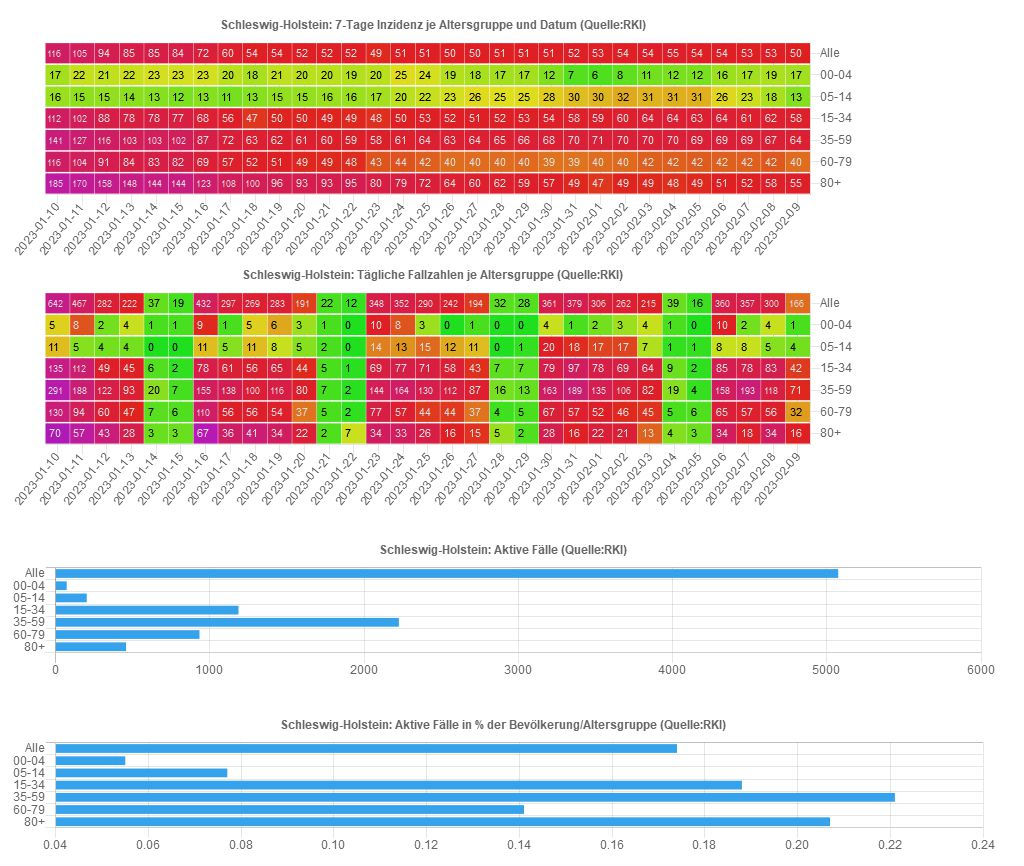
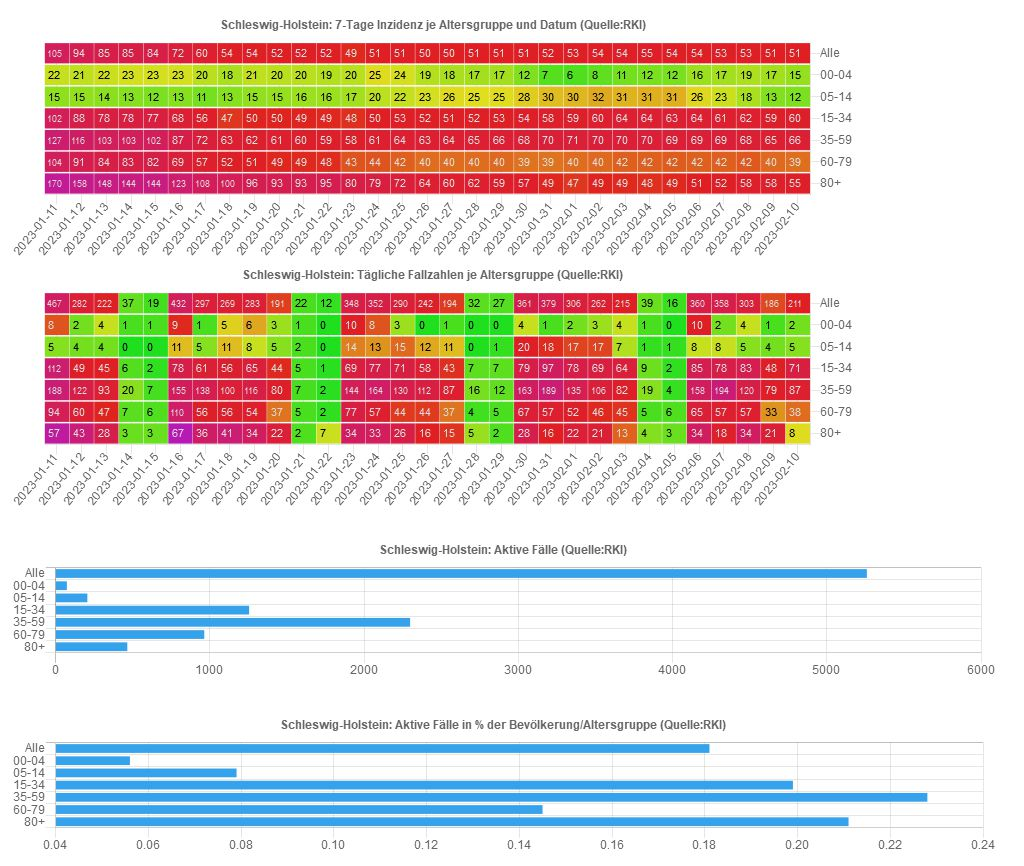
11.02.2023 20:03:33,46

diff --git a/sh/Data_SH_Alter.js b/sh/Data_SH_Alter.js
@@ -4,7 +4,6 @@ var chdata={
 		datasets: [{
 			label: 'Altersgruppeninzidenzen',
 			data: [
-				{x: '2023-01-10', y: 'Alle', v: 115.772749, vday: 154.386568, cases: 642, casesum: 3370},{x: '2023-01-10', y: '00-04', v: 16.9780597, vday: 27.0105495, cases: 5, casesum: 22},{x: '2023-01-10', y: '05-14', v: 15.7171827, vday: 29.5176358, cases: 11, casesum: 41},{x: '2023-01-10', y: '15-34', v: 111.725984, vday: 150.186422, cases: 135, casesum: 703},{x: '2023-01-10', y: '35-59', v: 141.154313, vday: 201.918073, cases: 291, casesum: 1424},{x: '2023-01-10', y: '60-79', v: 115.849652, vday: 137.44874, cases: 130, casesum: 767},{x: '2023-01-10', y: '80+', v: 185.179302, vday: 222.39671, cases: 70, casesum: 408},
 				{x: '2023-01-11', y: 'Alle', v: 105.088676, vday: 112.303002, cases: 467, casesum: 3059},{x: '2023-01-11', y: '00-04', v: 21.6084396, vday: 43.2168793, cases: 8, casesum: 28},{x: '2023-01-11', y: '05-14', v: 14.567145, vday: 13.4171072, cases: 5, casesum: 38},{x: '2023-01-11', y: '15-34', v: 102.03141, vday: 124.599106, cases: 112, casesum: 642},{x: '2023-01-11', y: '35-59', v: 126.880282, vday: 130.448789, cases: 188, casesum: 1280},{x: '2023-01-11', y: '60-79', v: 104.068332, vday: 99.3860119, cases: 94, casesum: 689},{x: '2023-01-11', y: '80+', v: 169.747693, vday: 181.094464, cases: 57, casesum: 374},
 				{x: '2023-01-12', y: 'Alle', v: 94.3015416, vday: 67.8146605, cases: 282, casesum: 2745},{x: '2023-01-12', y: '00-04', v: 20.8367097, vday: 10.8042198, cases: 2, casesum: 27},{x: '2023-01-12', y: '05-14', v: 14.9504909, vday: 10.7336858, cases: 4, casesum: 39},{x: '2023-01-12', y: '15-34', v: 87.7279417, vday: 54.5121087, cases: 49, casesum: 552},{x: '2023-01-12', y: '35-59', v: 115.580006, vday: 84.6529378, cases: 122, casesum: 1166},{x: '2023-01-12', y: '60-79', v: 91.0786705, vday: 63.43788, cases: 60, casesum: 603},{x: '2023-01-12', y: '80+', v: 158.400922, vday: 136.615122, cases: 43, casesum: 349},
 				{x: '2023-01-13', y: 'Alle', v: 85.4038734, vday: 53.3860094, cases: 222, casesum: 2486},{x: '2023-01-13', y: '00-04', v: 22.3801696, vday: 21.6084396, cases: 4, casesum: 29},{x: '2023-01-13', y: '05-14', v: 14.183799, vday: 10.7336858, cases: 4, casesum: 37},{x: '2023-01-13', y: '15-34', v: 78.1922958, vday: 50.0621406, cases: 45, casesum: 492},{x: '2023-01-13', y: '35-59', v: 102.991104, vday: 64.5305182, cases: 93, casesum: 1039},{x: '2023-01-13', y: '60-79', v: 83.8286271, vday: 49.693006, cases: 47, casesum: 555},{x: '2023-01-13', y: '80+', v: 147.508022, vday: 88.9586841, cases: 28, casesum: 325},
@@ -23,18 +22,19 @@ var chdata={
 				{x: '2023-01-26', y: 'Alle', v: 50.053678, vday: 58.1955598, cases: 242, casesum: 1457},{x: '2023-01-26', y: '00-04', v: 19.2932497, vday: 0, cases: 0, casesum: 25},{x: '2023-01-26', y: '05-14', v: 23.3841011, vday: 32.2010573, cases: 12, casesum: 61},{x: '2023-01-26', y: '15-34', v: 51.6514149, vday: 64.5245368, cases: 58, casesum: 325},{x: '2023-01-26', y: '35-59', v: 63.3410155, vday: 77.7141724, cases: 112, casesum: 639},{x: '2023-01-26', y: '60-79', v: 40.177324, vday: 46.521112, cases: 44, casesum: 266},{x: '2023-01-26', y: '80+', v: 63.5419172, vday: 50.8335338, cases: 16, casesum: 140},
 				{x: '2023-01-27', y: 'Alle', v: 50.1567398, vday: 46.6526388, cases: 194, casesum: 1460},{x: '2023-01-27', y: '00-04', v: 17.7497897, vday: 5.40210991, cases: 1, casesum: 23},{x: '2023-01-27', y: '05-14', v: 25.6841766, vday: 29.5176358, cases: 11, casesum: 67},{x: '2023-01-27', y: '15-34', v: 51.4924875, vday: 47.8371566, cases: 43, casesum: 324},{x: '2023-01-27', y: '35-59', v: 64.0348921, vday: 60.3672589, cases: 87, casesum: 646},{x: '2023-01-27', y: '60-79', v: 40.177324, vday: 39.120026, cases: 37, casesum: 266},{x: '2023-01-27', y: '80+', v: 60.3648214, vday: 47.6564379, cases: 15, casesum: 133},
 				{x: '2023-01-28', y: 'Alle', v: 50.5002791, vday: 7.69528063, cases: 32, casesum: 1470},{x: '2023-01-28', y: '00-04', v: 16.9780597, vday: 0, cases: 0, casesum: 22},{x: '2023-01-28', y: '05-14', v: 24.9174848, vday: 0, cases: 0, casesum: 65},{x: '2023-01-28', y: '15-34', v: 51.8103424, vday: 7.7874441, cases: 7, casesum: 326},{x: '2023-01-28', y: '35-59', v: 64.9270191, vday: 11.1020246, cases: 16, casesum: 655},{x: '2023-01-28', y: '60-79', v: 40.0262814, vday: 4.229192, cases: 4, casesum: 265},{x: '2023-01-28', y: '80+', v: 61.7264339, vday: 15.8854793, cases: 5, casesum: 136},
-				{x: '2023-01-29', y: 'Alle', v: 51.049942, vday: 6.73337055, cases: 28, casesum: 1486},{x: '2023-01-29', y: '00-04', v: 16.9780597, vday: 0, cases: 0, casesum: 22},{x: '2023-01-29', y: '05-14', v: 25.3008307, vday: 2.68342144, cases: 1, casesum: 66},{x: '2023-01-29', y: '15-34', v: 52.7639069, vday: 7.7874441, cases: 7, casesum: 332},{x: '2023-01-29', y: '35-59', v: 66.0173965, vday: 9.02039501, cases: 13, casesum: 666},{x: '2023-01-29', y: '60-79', v: 40.4794091, vday: 5.28649, cases: 5, casesum: 268},{x: '2023-01-29', y: '80+', v: 59.4570797, vday: 6.35419172, cases: 2, casesum: 131},
-				{x: '2023-01-30', y: 'Alle', v: 51.4965431, vday: 86.8123846, cases: 361, casesum: 1499},{x: '2023-01-30', y: '00-04', v: 12.3476798, vday: 21.6084396, cases: 4, casesum: 16},{x: '2023-01-30', y: '05-14', v: 27.6009062, vday: 53.6684288, cases: 20, casesum: 72},{x: '2023-01-30', y: '15-34', v: 54.3531813, vday: 87.8868691, cases: 79, casesum: 342},{x: '2023-01-30', y: '35-59', v: 67.9007757, vday: 113.101876, cases: 163, casesum: 685},{x: '2023-01-30', y: '60-79', v: 38.9689834, vday: 70.838966, cases: 67, casesum: 258},{x: '2023-01-30', y: '80+', v: 56.7338547, vday: 88.9586841, cases: 28, casesum: 125},
-				{x: '2023-01-31', y: 'Alle', v: 52.4240993, vday: 91.1409799, cases: 379, casesum: 1526},{x: '2023-01-31', y: '00-04', v: 6.94556988, vday: 5.40210991, cases: 1, casesum: 9},{x: '2023-01-31', y: '05-14', v: 29.5176358, vday: 48.3015859, cases: 18, casesum: 77},{x: '2023-01-31', y: '15-34', v: 57.5317299, vday: 107.911725, cases: 97, casesum: 362},{x: '2023-01-31', y: '35-59', v: 70.3789062, vday: 131.142666, cases: 189, casesum: 710},{x: '2023-01-31', y: '60-79', v: 38.9689834, vday: 60.265986, cases: 57, casesum: 258},{x: '2023-01-31', y: '80+', v: 49.0180504, vday: 50.8335338, cases: 16, casesum: 108},
-				{x: '2023-02-01', y: 'Alle', v: 52.9737622, vday: 73.586121, cases: 306, casesum: 1542},{x: '2023-02-01', y: '00-04', v: 6.1738399, vday: 10.8042198, cases: 2, casesum: 8},{x: '2023-02-01', y: '05-14', v: 30.2843277, vday: 45.6181645, cases: 17, casesum: 79},{x: '2023-02-01', y: '15-34', v: 58.6442219, vday: 86.7743771, cases: 78, casesum: 369},{x: '2023-02-01', y: '35-59', v: 70.8745323, vday: 93.6733328, cases: 135, casesum: 715},{x: '2023-02-01', y: '60-79', v: 40.177324, vday: 54.979496, cases: 52, casesum: 266},{x: '2023-02-01', y: '80+', v: 47.2025671, vday: 69.896109, cases: 22, casesum: 104},
-				{x: '2023-02-02', y: 'Alle', v: 53.6608408, vday: 63.0051101, cases: 262, casesum: 1562},{x: '2023-02-02', y: '00-04', v: 8.48902986, vday: 16.2063297, cases: 3, casesum: 11},{x: '2023-02-02', y: '05-14', v: 32.2010573, vday: 45.6181645, cases: 17, casesum: 84},{x: '2023-02-02', y: '15-34', v: 60.3924236, vday: 76.761949, cases: 69, casesum: 380},{x: '2023-02-02', y: '35-59', v: 70.2797809, vday: 73.5509132, cases: 106, casesum: 709},{x: '2023-02-02', y: '60-79', v: 40.4794091, vday: 48.635708, cases: 46, casesum: 268},{x: '2023-02-02', y: '80+', v: 49.4719213, vday: 66.7190131, cases: 21, casesum: 109},
-				{x: '2023-02-03', y: 'Alle', v: 54.3822734, vday: 51.7026667, cases: 215, casesum: 1583},{x: '2023-02-03', y: '00-04', v: 10.8042198, vday: 21.6084396, cases: 4, casesum: 14},{x: '2023-02-03', y: '05-14', v: 30.6676736, vday: 18.7839501, cases: 7, casesum: 80},{x: '2023-02-03', y: '15-34', v: 63.7298997, vday: 71.1994889, cases: 64, casesum: 401},{x: '2023-02-03', y: '35-59', v: 69.7841548, vday: 56.8978762, cases: 82, casesum: 704},{x: '2023-02-03', y: '60-79', v: 41.6877497, vday: 47.57841, cases: 45, casesum: 276},{x: '2023-02-03', y: '80+', v: 48.5641796, vday: 41.3022462, cases: 13, casesum: 107},
-				{x: '2023-02-04', y: 'Alle', v: 54.6227509, vday: 9.37862327, cases: 39, casesum: 1590},{x: '2023-02-04', y: '00-04', v: 11.5759498, vday: 5.40210991, cases: 1, casesum: 15},{x: '2023-02-04', y: '05-14', v: 31.0510195, vday: 2.68342144, cases: 1, casesum: 81},{x: '2023-02-04', y: '15-34', v: 64.0477545, vday: 10.0124281, cases: 9, casesum: 403},{x: '2023-02-04', y: '35-59', v: 70.0815305, vday: 13.1836543, cases: 19, casesum: 707},{x: '2023-02-04', y: '60-79', v: 41.8387923, vday: 5.28649, cases: 5, casesum: 277},{x: '2023-02-04', y: '80+', v: 48.1103088, vday: 12.7083834, cases: 4, casesum: 106},
+				{x: '2023-01-29', y: 'Alle', v: 51.0155881, vday: 6.49289303, cases: 27, casesum: 1485},{x: '2023-01-29', y: '00-04', v: 16.9780597, vday: 0, cases: 0, casesum: 22},{x: '2023-01-29', y: '05-14', v: 25.3008307, vday: 2.68342144, cases: 1, casesum: 66},{x: '2023-01-29', y: '15-34', v: 52.7639069, vday: 7.7874441, cases: 7, casesum: 332},{x: '2023-01-29', y: '35-59', v: 65.9182713, vday: 8.32651847, cases: 12, casesum: 665},{x: '2023-01-29', y: '60-79', v: 40.4794091, vday: 5.28649, cases: 5, casesum: 268},{x: '2023-01-29', y: '80+', v: 59.4570797, vday: 6.35419172, cases: 2, casesum: 131},
+				{x: '2023-01-30', y: 'Alle', v: 51.4621892, vday: 86.8123846, cases: 361, casesum: 1498},{x: '2023-01-30', y: '00-04', v: 12.3476798, vday: 21.6084396, cases: 4, casesum: 16},{x: '2023-01-30', y: '05-14', v: 27.6009062, vday: 53.6684288, cases: 20, casesum: 72},{x: '2023-01-30', y: '15-34', v: 54.3531813, vday: 87.8868691, cases: 79, casesum: 342},{x: '2023-01-30', y: '35-59', v: 67.8016504, vday: 113.101876, cases: 163, casesum: 684},{x: '2023-01-30', y: '60-79', v: 38.9689834, vday: 70.838966, cases: 67, casesum: 258},{x: '2023-01-30', y: '80+', v: 56.7338547, vday: 88.9586841, cases: 28, casesum: 125},
+				{x: '2023-01-31', y: 'Alle', v: 52.3897454, vday: 91.1409799, cases: 379, casesum: 1525},{x: '2023-01-31', y: '00-04', v: 6.94556988, vday: 5.40210991, cases: 1, casesum: 9},{x: '2023-01-31', y: '05-14', v: 29.5176358, vday: 48.3015859, cases: 18, casesum: 77},{x: '2023-01-31', y: '15-34', v: 57.5317299, vday: 107.911725, cases: 97, casesum: 362},{x: '2023-01-31', y: '35-59', v: 70.2797809, vday: 131.142666, cases: 189, casesum: 709},{x: '2023-01-31', y: '60-79', v: 38.9689834, vday: 60.265986, cases: 57, casesum: 258},{x: '2023-01-31', y: '80+', v: 49.0180504, vday: 50.8335338, cases: 16, casesum: 108},
+				{x: '2023-02-01', y: 'Alle', v: 52.9394083, vday: 73.586121, cases: 306, casesum: 1541},{x: '2023-02-01', y: '00-04', v: 6.1738399, vday: 10.8042198, cases: 2, casesum: 8},{x: '2023-02-01', y: '05-14', v: 30.2843277, vday: 45.6181645, cases: 17, casesum: 79},{x: '2023-02-01', y: '15-34', v: 58.6442219, vday: 86.7743771, cases: 78, casesum: 369},{x: '2023-02-01', y: '35-59', v: 70.775407, vday: 93.6733328, cases: 135, casesum: 714},{x: '2023-02-01', y: '60-79', v: 40.177324, vday: 54.979496, cases: 52, casesum: 266},{x: '2023-02-01', y: '80+', v: 47.2025671, vday: 69.896109, cases: 22, casesum: 104},
+				{x: '2023-02-02', y: 'Alle', v: 53.6264869, vday: 63.0051101, cases: 262, casesum: 1561},{x: '2023-02-02', y: '00-04', v: 8.48902986, vday: 16.2063297, cases: 3, casesum: 11},{x: '2023-02-02', y: '05-14', v: 32.2010573, vday: 45.6181645, cases: 17, casesum: 84},{x: '2023-02-02', y: '15-34', v: 60.3924236, vday: 76.761949, cases: 69, casesum: 380},{x: '2023-02-02', y: '35-59', v: 70.1806557, vday: 73.5509132, cases: 106, casesum: 708},{x: '2023-02-02', y: '60-79', v: 40.4794091, vday: 48.635708, cases: 46, casesum: 268},{x: '2023-02-02', y: '80+', v: 49.4719213, vday: 66.7190131, cases: 21, casesum: 109},
+				{x: '2023-02-03', y: 'Alle', v: 54.3479194, vday: 51.7026667, cases: 215, casesum: 1582},{x: '2023-02-03', y: '00-04', v: 10.8042198, vday: 21.6084396, cases: 4, casesum: 14},{x: '2023-02-03', y: '05-14', v: 30.6676736, vday: 18.7839501, cases: 7, casesum: 80},{x: '2023-02-03', y: '15-34', v: 63.7298997, vday: 71.1994889, cases: 64, casesum: 401},{x: '2023-02-03', y: '35-59', v: 69.6850296, vday: 56.8978762, cases: 82, casesum: 703},{x: '2023-02-03', y: '60-79', v: 41.6877497, vday: 47.57841, cases: 45, casesum: 276},{x: '2023-02-03', y: '80+', v: 48.5641796, vday: 41.3022462, cases: 13, casesum: 107},
+				{x: '2023-02-04', y: 'Alle', v: 54.588397, vday: 9.37862327, cases: 39, casesum: 1589},{x: '2023-02-04', y: '00-04', v: 11.5759498, vday: 5.40210991, cases: 1, casesum: 15},{x: '2023-02-04', y: '05-14', v: 31.0510195, vday: 2.68342144, cases: 1, casesum: 81},{x: '2023-02-04', y: '15-34', v: 64.0477545, vday: 10.0124281, cases: 9, casesum: 403},{x: '2023-02-04', y: '35-59', v: 69.9824053, vday: 13.1836543, cases: 19, casesum: 706},{x: '2023-02-04', y: '60-79', v: 41.8387923, vday: 5.28649, cases: 5, casesum: 277},{x: '2023-02-04', y: '80+', v: 48.1103088, vday: 12.7083834, cases: 4, casesum: 106},
 				{x: '2023-02-05', y: 'Alle', v: 54.2105037, vday: 3.84764031, cases: 16, casesum: 1578},{x: '2023-02-05', y: '00-04', v: 11.5759498, vday: 0, cases: 0, casesum: 15},{x: '2023-02-05', y: '05-14', v: 31.0510195, vday: 2.68342144, cases: 1, casesum: 81},{x: '2023-02-05', y: '15-34', v: 63.2531174, vday: 2.22498403, cases: 2, casesum: 398},{x: '2023-02-05', y: '35-59', v: 69.1894035, vday: 2.77550616, cases: 4, casesum: 698},{x: '2023-02-05', y: '60-79', v: 41.9898348, vday: 6.343788, cases: 6, casesum: 278},{x: '2023-02-05', y: '80+', v: 48.5641796, vday: 9.53128759, cases: 3, casesum: 107},
 				{x: '2023-02-06', y: 'Alle', v: 54.1761498, vday: 86.5719071, cases: 360, casesum: 1577},{x: '2023-02-06', y: '00-04', v: 16.2063297, vday: 54.0210991, cases: 10, casesum: 21},{x: '2023-02-06', y: '05-14', v: 26.4508685, vday: 21.4673715, cases: 8, casesum: 69},{x: '2023-02-06', y: '15-34', v: 64.2066819, vday: 94.5618212, cases: 85, casesum: 404},{x: '2023-02-06', y: '35-59', v: 68.6937774, vday: 109.632493, cases: 158, casesum: 693},{x: '2023-02-06', y: '60-79', v: 41.6877497, vday: 68.72437, cases: 65, casesum: 276},{x: '2023-02-06', y: '80+', v: 51.2874046, vday: 108.021259, cases: 34, casesum: 113},
-				{x: '2023-02-07', y: 'Alle', v: 53.4203633, vday: 85.8504745, cases: 357, casesum: 1555},{x: '2023-02-07', y: '00-04', v: 16.9780597, vday: 10.8042198, cases: 2, casesum: 22},{x: '2023-02-07', y: '05-14', v: 22.6174093, vday: 21.4673715, cases: 8, casesum: 59},{x: '2023-02-07', y: '15-34', v: 61.1870608, vday: 86.7743771, cases: 78, casesum: 385},{x: '2023-02-07', y: '35-59', v: 69.0902783, vday: 133.918172, cases: 193, casesum: 697},{x: '2023-02-07', y: '60-79', v: 41.6877497, vday: 60.265986, cases: 57, casesum: 276},{x: '2023-02-07', y: '80+', v: 52.1951463, vday: 57.1877255, cases: 18, casesum: 115},
-				{x: '2023-02-08', y: 'Alle', v: 53.2142397, vday: 72.1432559, cases: 300, casesum: 1549},{x: '2023-02-08', y: '00-04', v: 18.5215197, vday: 21.6084396, cases: 4, casesum: 24},{x: '2023-02-08', y: '05-14', v: 18.0172582, vday: 13.4171072, cases: 5, casesum: 47},{x: '2023-02-08', y: '15-34', v: 61.9816979, vday: 92.3368372, cases: 83, casesum: 390},{x: '2023-02-08', y: '35-59', v: 67.4051496, vday: 81.8774317, cases: 118, casesum: 680},{x: '2023-02-08', y: '60-79', v: 42.29192, vday: 59.208688, cases: 56, casesum: 280},{x: '2023-02-08', y: '80+', v: 57.6415964, vday: 108.021259, cases: 34, casesum: 127},
-				{x: '2023-02-09', y: 'Alle', v: 49.9162623, vday: 39.9192683, cases: 166, casesum: 1453},{x: '2023-02-09', y: '00-04', v: 16.9780597, vday: 5.40210991, cases: 1, casesum: 22},{x: '2023-02-09', y: '05-14', v: 13.0337613, vday: 10.7336858, cases: 4, casesum: 34},{x: '2023-02-09', y: '15-34', v: 57.6906573, vday: 46.7246646, cases: 42, casesum: 363},{x: '2023-02-09', y: '35-59', v: 63.9357669, vday: 49.2652343, cases: 71, casesum: 645},{x: '2023-02-09', y: '60-79', v: 40.177324, vday: 33.833536, cases: 32, casesum: 266},{x: '2023-02-09', y: '80+', v: 55.3722422, vday: 50.8335338, cases: 16, casesum: 122}
+				{x: '2023-02-07', y: 'Alle', v: 53.4547172, vday: 86.090952, cases: 358, casesum: 1556},{x: '2023-02-07', y: '00-04', v: 16.9780597, vday: 10.8042198, cases: 2, casesum: 22},{x: '2023-02-07', y: '05-14', v: 22.6174093, vday: 21.4673715, cases: 8, casesum: 59},{x: '2023-02-07', y: '15-34', v: 61.1870608, vday: 86.7743771, cases: 78, casesum: 385},{x: '2023-02-07', y: '35-59', v: 69.1894035, vday: 134.612049, cases: 194, casesum: 698},{x: '2023-02-07', y: '60-79', v: 41.6877497, vday: 60.265986, cases: 57, casesum: 276},{x: '2023-02-07', y: '80+', v: 52.1951463, vday: 57.1877255, cases: 18, casesum: 115},
+				{x: '2023-02-08', y: 'Alle', v: 53.3516554, vday: 72.8646885, cases: 303, casesum: 1553},{x: '2023-02-08', y: '00-04', v: 18.5215197, vday: 21.6084396, cases: 4, casesum: 24},{x: '2023-02-08', y: '05-14', v: 18.0172582, vday: 13.4171072, cases: 5, casesum: 47},{x: '2023-02-08', y: '15-34', v: 61.9816979, vday: 92.3368372, cases: 83, casesum: 390},{x: '2023-02-08', y: '35-59', v: 67.7025252, vday: 83.2651847, cases: 120, casesum: 683},{x: '2023-02-08', y: '60-79', v: 42.4429625, vday: 60.265986, cases: 57, casesum: 281},{x: '2023-02-08', y: '80+', v: 57.6415964, vday: 108.021259, cases: 34, casesum: 127},
+				{x: '2023-02-09', y: 'Alle', v: 50.7407566, vday: 44.7288187, cases: 186, casesum: 1477},{x: '2023-02-09', y: '00-04', v: 16.9780597, vday: 5.40210991, cases: 1, casesum: 22},{x: '2023-02-09', y: '05-14', v: 13.0337613, vday: 10.7336858, cases: 4, casesum: 34},{x: '2023-02-09', y: '15-34', v: 58.6442219, vday: 53.3996167, cases: 48, casesum: 369},{x: '2023-02-09', y: '35-59', v: 65.0261443, vday: 54.8162466, cases: 79, casesum: 656},{x: '2023-02-09', y: '60-79', v: 40.4794091, vday: 34.890834, cases: 33, casesum: 268},{x: '2023-02-09', y: '80+', v: 57.6415964, vday: 66.7190131, cases: 21, casesum: 127},
+				{x: '2023-02-10', y: 'Alle', v: 50.6033409, vday: 50.7407566, cases: 211, casesum: 1473},{x: '2023-02-10', y: '00-04', v: 15.4345997, vday: 10.8042198, cases: 2, casesum: 20},{x: '2023-02-10', y: '05-14', v: 12.2670694, vday: 13.4171072, cases: 5, casesum: 32},{x: '2023-02-10', y: '15-34', v: 59.7567139, vday: 78.986933, cases: 71, casesum: 376},{x: '2023-02-10', y: '35-59', v: 65.5217704, vday: 60.3672589, cases: 87, casesum: 661},{x: '2023-02-10', y: '60-79', v: 39.4221111, vday: 40.177324, cases: 38, casesum: 261},{x: '2023-02-10', y: '80+', v: 55.3722422, vday: 25.4167669, cases: 8, casesum: 122}
 			],
 			backgroundColor: function(context) {
 				return inzColor(context.dataset.data[context.dataIndex].v)
@@ -54,7 +54,7 @@ var chdata={
 	options: {
 		legend: { display: false },
 		scales: {
-			xAxes: [{type: 'category', labels: ["2023-01-10","2023-01-11","2023-01-12","2023-01-13","2023-01-14","2023-01-15","2023-01-16","2023-01-17","2023-01-18","2023-01-19","2023-01-20","2023-01-21","2023-01-22","2023-01-23","2023-01-24","2023-01-25","2023-01-26","2023-01-27","2023-01-28","2023-01-29","2023-01-30","2023-01-31","2023-02-01","2023-02-02","2023-02-03","2023-02-04","2023-02-05","2023-02-06","2023-02-07","2023-02-08","2023-02-09",], ticks: {display: true},gridlines:{display:false}}],
+			xAxes: [{type: 'category', labels: ["2023-01-11","2023-01-12","2023-01-13","2023-01-14","2023-01-15","2023-01-16","2023-01-17","2023-01-18","2023-01-19","2023-01-20","2023-01-21","2023-01-22","2023-01-23","2023-01-24","2023-01-25","2023-01-26","2023-01-27","2023-01-28","2023-01-29","2023-01-30","2023-01-31","2023-02-01","2023-02-02","2023-02-03","2023-02-04","2023-02-05","2023-02-06","2023-02-07","2023-02-08","2023-02-09","2023-02-10",], ticks: {display: true},gridlines:{display:false}}],
 			yAxes: [{type: 'category', labels: ["Alle","00-04","05-14","15-34","35-59","60-79","80+"], offset:true, ticks: {display: true},gridlines:{display:false}}],
 		},
 	}
@@ -64,7 +64,7 @@ var chdata2={
 	data: {
 		datasets: [{
 			label: 'Aktive Fälle ',
-			data: [5074,71,201,1185,2225,932,456
+			data: [5260,72,205,1254,2298,963,464
 			],
 		}]
 	},
@@ -80,7 +80,7 @@ var chdata4={
 	data: {
 		datasets: [{
 			label: 'Aktive Fälle in % der Bevölkerung/Altersgruppe',
-			data: [0.174,0.055,0.077,0.188,0.221,0.141,0.207
+			data: [0.181,0.056,0.079,0.199,0.228,0.145,0.211
 			],
 		}]
 	},

diff --git a/sh/Data_PI_Alter.js b/sh/Data_PI_Alter.js
@@ -4,7 +4,6 @@ var chdata={
 		datasets: [{
 			label: 'Altersgruppeninzidenzen',
 			data: [
-				{x: '2023-01-10', y: 'Alle', v: 129.071853, vday: 343.242551, cases: 155, casesum: 408},{x: '2023-01-10', y: '00-04', v: 6.65468823, vday: 0, cases: 0, casesum: 1},{x: '2023-01-10', y: '05-14', v: 23.5729921, vday: 47.1459842, cases: 2, casesum: 7},{x: '2023-01-10', y: '15-34', v: 127.877238, vday: 319.693095, cases: 30, casesum: 84},{x: '2023-01-10', y: '35-59', v: 174.720317, vday: 498.952547, cases: 82, casesum: 201},{x: '2023-01-10', y: '60-79', v: 116.819018, vday: 337.314915, cases: 33, casesum: 80},{x: '2023-01-10', y: '80+', v: 157.870997, vday: 252.593595, cases: 8, casesum: 35},
 				{x: '2023-01-11', y: 'Alle', v: 121.795744, vday: 139.511488, cases: 63, casesum: 385},{x: '2023-01-11', y: '00-04', v: 26.6187529, vday: 139.748453, cases: 3, casesum: 4},{x: '2023-01-11', y: '05-14', v: 26.9405624, vday: 23.5729921, cases: 1, casesum: 8},{x: '2023-01-11', y: '15-34', v: 111.131409, vday: 95.9079284, cases: 9, casesum: 73},{x: '2023-01-11', y: '35-59', v: 166.027764, vday: 170.374041, cases: 28, casesum: 191},{x: '2023-01-11', y: '60-79', v: 113.898543, vday: 163.546625, cases: 16, casesum: 78},{x: '2023-01-11', y: '80+', v: 139.828597, vday: 189.445196, cases: 6, casesum: 31},
 				{x: '2023-01-12', y: 'Alle', v: 117.999513, vday: 68.6485101, cases: 31, casesum: 373},{x: '2023-01-12', y: '00-04', v: 26.6187529, vday: 0, cases: 0, casesum: 4},{x: '2023-01-12', y: '05-14', v: 26.9405624, vday: 0, cases: 0, casesum: 8},{x: '2023-01-12', y: '15-34', v: 101.997321, vday: 31.9693095, cases: 3, casesum: 67},{x: '2023-01-12', y: '35-59', v: 162.550743, vday: 109.526169, cases: 18, casesum: 187},{x: '2023-01-12', y: '60-79', v: 112.438305, vday: 61.3299845, cases: 6, casesum: 77},{x: '2023-01-12', y: '80+', v: 135.317997, vday: 126.296797, cases: 4, casesum: 30},
 				{x: '2023-01-13', y: 'Alle', v: 114.519634, vday: 70.8629782, cases: 32, casesum: 362},{x: '2023-01-13', y: '00-04', v: 19.9640647, vday: 0, cases: 0, casesum: 3},{x: '2023-01-13', y: '05-14', v: 30.3081327, vday: 23.5729921, cases: 1, casesum: 9},{x: '2023-01-13', y: '15-34', v: 100.474973, vday: 74.5950554, cases: 7, casesum: 66},{x: '2023-01-13', y: '35-59', v: 152.119679, vday: 54.7630845, cases: 9, casesum: 175},{x: '2023-01-13', y: '60-79', v: 118.279256, vday: 112.438305, cases: 11, casesum: 81},{x: '2023-01-13', y: '80+', v: 126.296797, vday: 126.296797, cases: 4, casesum: 28},
@@ -23,18 +22,19 @@ var chdata={
 				{x: '2023-01-26', y: 'Alle', v: 47.4528872, vday: 77.5063824, cases: 35, casesum: 150},{x: '2023-01-26', y: '00-04', v: 19.9640647, vday: 0, cases: 0, casesum: 3},{x: '2023-01-26', y: '05-14', v: 10.1027109, vday: 23.5729921, cases: 1, casesum: 3},{x: '2023-01-26', y: '15-34', v: 50.2374863, vday: 63.9386189, cases: 6, casesum: 33},{x: '2023-01-26', y: '35-59', v: 53.0245738, vday: 97.3565946, cases: 16, casesum: 61},{x: '2023-01-26', y: '60-79', v: 40.8866563, vday: 81.7733127, cases: 8, casesum: 28},{x: '2023-01-26', y: '80+', v: 99.233198, vday: 126.296797, cases: 4, casesum: 22},
 				{x: '2023-01-27', y: 'Alle', v: 45.8711243, vday: 22.1446807, cases: 10, casesum: 145},{x: '2023-01-27', y: '00-04', v: 19.9640647, vday: 0, cases: 0, casesum: 3},{x: '2023-01-27', y: '05-14', v: 10.1027109, vday: 0, cases: 0, casesum: 3},{x: '2023-01-27', y: '15-34', v: 47.1927902, vday: 10.6564365, cases: 1, casesum: 31},{x: '2023-01-27', y: '35-59', v: 48.6782973, vday: 18.2543615, cases: 3, casesum: 56},{x: '2023-01-27', y: '60-79', v: 45.2673695, vday: 61.3299845, cases: 6, casesum: 31},{x: '2023-01-27', y: '80+', v: 94.7225981, vday: 0, cases: 0, casesum: 21},
 				{x: '2023-01-28', y: 'Alle', v: 45.2384191, vday: 26.5736168, cases: 12, casesum: 143},{x: '2023-01-28', y: '00-04', v: 13.3093765, vday: 0, cases: 0, casesum: 2},{x: '2023-01-28', y: '05-14', v: 6.7351406, vday: 0, cases: 0, casesum: 2},{x: '2023-01-28', y: '15-34', v: 45.6704421, vday: 21.312873, cases: 2, casesum: 30},{x: '2023-01-28', y: '35-59', v: 53.0245738, vday: 60.8478716, cases: 10, casesum: 61},{x: '2023-01-28', y: '60-79', v: 42.3468941, vday: 0, cases: 0, casesum: 29},{x: '2023-01-28', y: '80+', v: 85.7013983, vday: 0, cases: 0, casesum: 19},
-				{x: '2023-01-29', y: 'Alle', v: 46.1874769, vday: 15.5012765, cases: 7, casesum: 146},{x: '2023-01-29', y: '00-04', v: 13.3093765, vday: 0, cases: 0, casesum: 2},{x: '2023-01-29', y: '05-14', v: 6.7351406, vday: 0, cases: 0, casesum: 2},{x: '2023-01-29', y: '15-34', v: 48.7151382, vday: 21.312873, cases: 2, casesum: 32},{x: '2023-01-29', y: '35-59', v: 54.7630845, vday: 12.1695743, cases: 2, casesum: 63},{x: '2023-01-29', y: '60-79', v: 43.8071318, vday: 10.2216641, cases: 1, casesum: 30},{x: '2023-01-29', y: '80+', v: 76.6801985, vday: 63.1483987, cases: 2, casesum: 17},
-				{x: '2023-01-30', y: 'Alle', v: 49.0346501, vday: 64.219574, cases: 29, casesum: 155},{x: '2023-01-30', y: '00-04', v: 13.3093765, vday: 0, cases: 0, casesum: 2},{x: '2023-01-30', y: '05-14', v: 3.3675703, vday: 0, cases: 0, casesum: 1},{x: '2023-01-30', y: '15-34', v: 54.8045305, vday: 85.2514919, cases: 8, casesum: 36},{x: '2023-01-30', y: '35-59', v: 59.9786163, vday: 79.1022331, cases: 13, casesum: 69},{x: '2023-01-30', y: '60-79', v: 48.187845, vday: 71.5516486, cases: 7, casesum: 33},{x: '2023-01-30', y: '80+', v: 63.1483987, vday: 31.5741994, cases: 1, casesum: 14},
-				{x: '2023-01-31', y: 'Alle', v: 51.5654707, vday: 79.7208505, cases: 36, casesum: 163},{x: '2023-01-31', y: '00-04', v: 13.3093765, vday: 0, cases: 0, casesum: 2},{x: '2023-01-31', y: '05-14', v: 10.1027109, vday: 47.1459842, cases: 2, casesum: 3},{x: '2023-01-31', y: '15-34', v: 48.7151382, vday: 42.625746, cases: 4, casesum: 32},{x: '2023-01-31', y: '35-59', v: 66.0634035, vday: 103.441382, cases: 17, casesum: 76},{x: '2023-01-31', y: '60-79', v: 54.0287959, vday: 102.216641, cases: 10, casesum: 37},{x: '2023-01-31', y: '80+', v: 58.6377988, vday: 94.7225981, cases: 3, casesum: 13},
-				{x: '2023-02-01', y: 'Alle', v: 52.1981759, vday: 79.7208505, cases: 36, casesum: 165},{x: '2023-02-01', y: '00-04', v: 6.65468823, vday: 46.5828176, cases: 1, casesum: 1},{x: '2023-02-01', y: '05-14', v: 10.1027109, vday: 0, cases: 0, casesum: 3},{x: '2023-02-01', y: '15-34', v: 50.2374863, vday: 106.564365, cases: 10, casesum: 33},{x: '2023-02-01', y: '35-59', v: 66.9326588, vday: 97.3565946, cases: 16, casesum: 77},{x: '2023-02-01', y: '60-79', v: 56.9492713, vday: 71.5516486, cases: 7, casesum: 39},{x: '2023-02-01', y: '80+', v: 54.1271989, vday: 63.1483987, cases: 2, casesum: 12},
-				{x: '2023-02-02', y: 'Alle', v: 49.3510027, vday: 57.5761698, cases: 26, casesum: 156},{x: '2023-02-02', y: '00-04', v: 6.65468823, vday: 0, cases: 0, casesum: 1},{x: '2023-02-02', y: '05-14', v: 6.7351406, vday: 0, cases: 0, casesum: 2},{x: '2023-02-02', y: '15-34', v: 56.3268786, vday: 106.564365, cases: 10, casesum: 37},{x: '2023-02-02', y: '35-59', v: 62.5863822, vday: 66.9326588, cases: 11, casesum: 72},{x: '2023-02-02', y: '60-79', v: 52.5685582, vday: 51.1083204, cases: 5, casesum: 36},{x: '2023-02-02', y: '80+', v: 36.0847993, vday: 0, cases: 0, casesum: 8},
-				{x: '2023-02-03', y: 'Alle', v: 50.3000604, vday: 28.7880849, cases: 13, casesum: 159},{x: '2023-02-03', y: '00-04', v: 6.65468823, vday: 0, cases: 0, casesum: 1},{x: '2023-02-03', y: '05-14', v: 6.7351406, vday: 0, cases: 0, casesum: 2},{x: '2023-02-03', y: '15-34', v: 57.8492266, vday: 21.312873, cases: 2, casesum: 38},{x: '2023-02-03', y: '35-59', v: 64.3248929, vday: 30.4239358, cases: 5, casesum: 74},{x: '2023-02-03', y: '60-79', v: 52.5685582, vday: 61.3299845, cases: 6, casesum: 36},{x: '2023-02-03', y: '80+', v: 36.0847993, vday: 0, cases: 0, casesum: 8},
-				{x: '2023-02-04', y: 'Alle', v: 55.0453491, vday: 59.7906379, cases: 27, casesum: 174},{x: '2023-02-04', y: '00-04', v: 6.65468823, vday: 0, cases: 0, casesum: 1},{x: '2023-02-04', y: '05-14', v: 10.1027109, vday: 23.5729921, cases: 1, casesum: 3},{x: '2023-02-04', y: '15-34', v: 62.4162709, vday: 53.2821824, cases: 5, casesum: 41},{x: '2023-02-04', y: '35-59', v: 67.8019141, vday: 85.1870203, cases: 14, casesum: 78},{x: '2023-02-04', y: '60-79', v: 58.4095091, vday: 40.8866563, cases: 4, casesum: 40},{x: '2023-02-04', y: '80+', v: 49.616599, vday: 94.7225981, cases: 3, casesum: 11},
+				{x: '2023-01-29', y: 'Alle', v: 45.8711243, vday: 13.2868084, cases: 6, casesum: 145},{x: '2023-01-29', y: '00-04', v: 13.3093765, vday: 0, cases: 0, casesum: 2},{x: '2023-01-29', y: '05-14', v: 6.7351406, vday: 0, cases: 0, casesum: 2},{x: '2023-01-29', y: '15-34', v: 48.7151382, vday: 21.312873, cases: 2, casesum: 32},{x: '2023-01-29', y: '35-59', v: 53.8938292, vday: 6.08478716, cases: 1, casesum: 62},{x: '2023-01-29', y: '60-79', v: 43.8071318, vday: 10.2216641, cases: 1, casesum: 30},{x: '2023-01-29', y: '80+', v: 76.6801985, vday: 63.1483987, cases: 2, casesum: 17},
+				{x: '2023-01-30', y: 'Alle', v: 48.7182975, vday: 64.219574, cases: 29, casesum: 154},{x: '2023-01-30', y: '00-04', v: 13.3093765, vday: 0, cases: 0, casesum: 2},{x: '2023-01-30', y: '05-14', v: 3.3675703, vday: 0, cases: 0, casesum: 1},{x: '2023-01-30', y: '15-34', v: 54.8045305, vday: 85.2514919, cases: 8, casesum: 36},{x: '2023-01-30', y: '35-59', v: 59.109361, vday: 79.1022331, cases: 13, casesum: 68},{x: '2023-01-30', y: '60-79', v: 48.187845, vday: 71.5516486, cases: 7, casesum: 33},{x: '2023-01-30', y: '80+', v: 63.1483987, vday: 31.5741994, cases: 1, casesum: 14},
+				{x: '2023-01-31', y: 'Alle', v: 51.2491182, vday: 79.7208505, cases: 36, casesum: 162},{x: '2023-01-31', y: '00-04', v: 13.3093765, vday: 0, cases: 0, casesum: 2},{x: '2023-01-31', y: '05-14', v: 10.1027109, vday: 47.1459842, cases: 2, casesum: 3},{x: '2023-01-31', y: '15-34', v: 48.7151382, vday: 42.625746, cases: 4, casesum: 32},{x: '2023-01-31', y: '35-59', v: 65.1941482, vday: 103.441382, cases: 17, casesum: 75},{x: '2023-01-31', y: '60-79', v: 54.0287959, vday: 102.216641, cases: 10, casesum: 37},{x: '2023-01-31', y: '80+', v: 58.6377988, vday: 94.7225981, cases: 3, casesum: 13},
+				{x: '2023-02-01', y: 'Alle', v: 51.8818233, vday: 79.7208505, cases: 36, casesum: 164},{x: '2023-02-01', y: '00-04', v: 6.65468823, vday: 46.5828176, cases: 1, casesum: 1},{x: '2023-02-01', y: '05-14', v: 10.1027109, vday: 0, cases: 0, casesum: 3},{x: '2023-02-01', y: '15-34', v: 50.2374863, vday: 106.564365, cases: 10, casesum: 33},{x: '2023-02-01', y: '35-59', v: 66.0634035, vday: 97.3565946, cases: 16, casesum: 76},{x: '2023-02-01', y: '60-79', v: 56.9492713, vday: 71.5516486, cases: 7, casesum: 39},{x: '2023-02-01', y: '80+', v: 54.1271989, vday: 63.1483987, cases: 2, casesum: 12},
+				{x: '2023-02-02', y: 'Alle', v: 49.0346501, vday: 57.5761698, cases: 26, casesum: 155},{x: '2023-02-02', y: '00-04', v: 6.65468823, vday: 0, cases: 0, casesum: 1},{x: '2023-02-02', y: '05-14', v: 6.7351406, vday: 0, cases: 0, casesum: 2},{x: '2023-02-02', y: '15-34', v: 56.3268786, vday: 106.564365, cases: 10, casesum: 37},{x: '2023-02-02', y: '35-59', v: 61.7171269, vday: 66.9326588, cases: 11, casesum: 71},{x: '2023-02-02', y: '60-79', v: 52.5685582, vday: 51.1083204, cases: 5, casesum: 36},{x: '2023-02-02', y: '80+', v: 36.0847993, vday: 0, cases: 0, casesum: 8},
+				{x: '2023-02-03', y: 'Alle', v: 49.9837078, vday: 28.7880849, cases: 13, casesum: 158},{x: '2023-02-03', y: '00-04', v: 6.65468823, vday: 0, cases: 0, casesum: 1},{x: '2023-02-03', y: '05-14', v: 6.7351406, vday: 0, cases: 0, casesum: 2},{x: '2023-02-03', y: '15-34', v: 57.8492266, vday: 21.312873, cases: 2, casesum: 38},{x: '2023-02-03', y: '35-59', v: 63.4556376, vday: 30.4239358, cases: 5, casesum: 73},{x: '2023-02-03', y: '60-79', v: 52.5685582, vday: 61.3299845, cases: 6, casesum: 36},{x: '2023-02-03', y: '80+', v: 36.0847993, vday: 0, cases: 0, casesum: 8},
+				{x: '2023-02-04', y: 'Alle', v: 54.7289966, vday: 59.7906379, cases: 27, casesum: 173},{x: '2023-02-04', y: '00-04', v: 6.65468823, vday: 0, cases: 0, casesum: 1},{x: '2023-02-04', y: '05-14', v: 10.1027109, vday: 23.5729921, cases: 1, casesum: 3},{x: '2023-02-04', y: '15-34', v: 62.4162709, vday: 53.2821824, cases: 5, casesum: 41},{x: '2023-02-04', y: '35-59', v: 66.9326588, vday: 85.1870203, cases: 14, casesum: 77},{x: '2023-02-04', y: '60-79', v: 58.4095091, vday: 40.8866563, cases: 4, casesum: 40},{x: '2023-02-04', y: '80+', v: 49.616599, vday: 94.7225981, cases: 3, casesum: 11},
 				{x: '2023-02-05', y: 'Alle', v: 54.412644, vday: 11.0723403, cases: 5, casesum: 172},{x: '2023-02-05', y: '00-04', v: 6.65468823, vday: 0, cases: 0, casesum: 1},{x: '2023-02-05', y: '05-14', v: 10.1027109, vday: 0, cases: 0, casesum: 3},{x: '2023-02-05', y: '15-34', v: 60.8939228, vday: 10.6564365, cases: 1, casesum: 40},{x: '2023-02-05', y: '35-59', v: 66.0634035, vday: 0, cases: 0, casesum: 76},{x: '2023-02-05', y: '60-79', v: 62.7902222, vday: 40.8866563, cases: 4, casesum: 43},{x: '2023-02-05', y: '80+', v: 40.5953992, vday: 0, cases: 0, casesum: 9},
 				{x: '2023-02-06', y: 'Alle', v: 51.8818233, vday: 46.5038294, cases: 21, casesum: 164},{x: '2023-02-06', y: '00-04', v: 6.65468823, vday: 0, cases: 0, casesum: 1},{x: '2023-02-06', y: '05-14', v: 13.4702812, vday: 23.5729921, cases: 1, casesum: 4},{x: '2023-02-06', y: '15-34', v: 50.2374863, vday: 10.6564365, cases: 1, casesum: 33},{x: '2023-02-06', y: '35-59', v: 63.4556376, vday: 60.8478716, cases: 10, casesum: 73},{x: '2023-02-06', y: '60-79', v: 62.7902222, vday: 71.5516486, cases: 7, casesum: 43},{x: '2023-02-06', y: '80+', v: 45.1059991, vday: 63.1483987, cases: 2, casesum: 10},
-				{x: '2023-02-07', y: 'Alle', v: 47.4528872, vday: 48.7182975, cases: 22, casesum: 150},{x: '2023-02-07', y: '00-04', v: 6.65468823, vday: 0, cases: 0, casesum: 1},{x: '2023-02-07', y: '05-14', v: 6.7351406, vday: 0, cases: 0, casesum: 2},{x: '2023-02-07', y: '15-34', v: 48.7151382, vday: 31.9693095, cases: 3, casesum: 32},{x: '2023-02-07', y: '35-59', v: 57.3708504, vday: 60.8478716, cases: 10, casesum: 66},{x: '2023-02-07', y: '60-79', v: 58.4095091, vday: 71.5516486, cases: 7, casesum: 40},{x: '2023-02-07', y: '80+', v: 40.5953992, vday: 63.1483987, cases: 2, casesum: 9},
-				{x: '2023-02-08', y: 'Alle', v: 46.1874769, vday: 70.8629782, cases: 32, casesum: 146},{x: '2023-02-08', y: '00-04', v: 6.65468823, vday: 46.5828176, cases: 1, casesum: 1},{x: '2023-02-08', y: '05-14', v: 6.7351406, vday: 0, cases: 0, casesum: 2},{x: '2023-02-08', y: '15-34', v: 38.0587017, vday: 31.9693095, cases: 3, casesum: 25},{x: '2023-02-08', y: '35-59', v: 51.2860632, vday: 54.7630845, cases: 9, casesum: 59},{x: '2023-02-08', y: '60-79', v: 58.4095091, vday: 71.5516486, cases: 7, casesum: 40},{x: '2023-02-08', y: '80+', v: 85.7013983, vday: 378.890392, cases: 12, casesum: 19},
-				{x: '2023-02-09', y: 'Alle', v: 39.8604252, vday: 13.2868084, cases: 6, casesum: 126},{x: '2023-02-09', y: '00-04', v: 6.65468823, vday: 0, cases: 0, casesum: 1},{x: '2023-02-09', y: '05-14', v: 6.7351406, vday: 0, cases: 0, casesum: 2},{x: '2023-02-09', y: '15-34', v: 22.835221, vday: 0, cases: 0, casesum: 15},{x: '2023-02-09', y: '35-59', v: 44.3320208, vday: 18.2543615, cases: 3, casesum: 51},{x: '2023-02-09', y: '60-79', v: 52.5685582, vday: 10.2216641, cases: 1, casesum: 36},{x: '2023-02-09', y: '80+', v: 94.7225981, vday: 63.1483987, cases: 2, casesum: 21}
+				{x: '2023-02-07', y: 'Alle', v: 47.7692398, vday: 50.9327656, cases: 23, casesum: 151},{x: '2023-02-07', y: '00-04', v: 6.65468823, vday: 0, cases: 0, casesum: 1},{x: '2023-02-07', y: '05-14', v: 6.7351406, vday: 0, cases: 0, casesum: 2},{x: '2023-02-07', y: '15-34', v: 48.7151382, vday: 31.9693095, cases: 3, casesum: 32},{x: '2023-02-07', y: '35-59', v: 58.2401057, vday: 66.9326588, cases: 11, casesum: 67},{x: '2023-02-07', y: '60-79', v: 58.4095091, vday: 71.5516486, cases: 7, casesum: 40},{x: '2023-02-07', y: '80+', v: 40.5953992, vday: 63.1483987, cases: 2, casesum: 9},
+				{x: '2023-02-08', y: 'Alle', v: 46.820182, vday: 73.0774463, cases: 33, casesum: 148},{x: '2023-02-08', y: '00-04', v: 6.65468823, vday: 46.5828176, cases: 1, casesum: 1},{x: '2023-02-08', y: '05-14', v: 6.7351406, vday: 0, cases: 0, casesum: 2},{x: '2023-02-08', y: '15-34', v: 38.0587017, vday: 31.9693095, cases: 3, casesum: 25},{x: '2023-02-08', y: '35-59', v: 52.1553185, vday: 54.7630845, cases: 9, casesum: 60},{x: '2023-02-08', y: '60-79', v: 59.8697468, vday: 81.7733127, cases: 8, casesum: 41},{x: '2023-02-08', y: '80+', v: 85.7013983, vday: 378.890392, cases: 12, casesum: 19},
+				{x: '2023-02-09', y: 'Alle', v: 42.0748933, vday: 24.3591488, cases: 11, casesum: 133},{x: '2023-02-09', y: '00-04', v: 6.65468823, vday: 0, cases: 0, casesum: 1},{x: '2023-02-09', y: '05-14', v: 6.7351406, vday: 0, cases: 0, casesum: 2},{x: '2023-02-09', y: '15-34', v: 22.835221, vday: 0, cases: 0, casesum: 15},{x: '2023-02-09', y: '35-59', v: 46.9397867, vday: 30.4239358, cases: 5, casesum: 54},{x: '2023-02-09', y: '60-79', v: 55.4890336, vday: 20.4433282, cases: 2, casesum: 38},{x: '2023-02-09', y: '80+', v: 103.743798, vday: 126.296797, cases: 4, casesum: 23},
+				{x: '2023-02-10', y: 'Alle', v: 40.1767778, vday: 15.5012765, cases: 7, casesum: 127},{x: '2023-02-10', y: '00-04', v: 6.65468823, vday: 0, cases: 0, casesum: 1},{x: '2023-02-10', y: '05-14', v: 6.7351406, vday: 0, cases: 0, casesum: 2},{x: '2023-02-10', y: '15-34', v: 22.835221, vday: 21.312873, cases: 2, casesum: 15},{x: '2023-02-10', y: '35-59', v: 46.0705314, vday: 24.3391487, cases: 4, casesum: 53},{x: '2023-02-10', y: '60-79', v: 46.7276073, vday: 0, cases: 0, casesum: 32},{x: '2023-02-10', y: '80+', v: 108.254398, vday: 31.5741994, cases: 1, casesum: 24}
 			],
 			backgroundColor: function(context) {
 				return inzColor(context.dataset.data[context.dataIndex].v)
@@ -54,7 +54,7 @@ var chdata={
 	options: {
 		legend: { display: false },
 		scales: {
-			xAxes: [{type: 'category', labels: ["2023-01-10","2023-01-11","2023-01-12","2023-01-13","2023-01-14","2023-01-15","2023-01-16","2023-01-17","2023-01-18","2023-01-19","2023-01-20","2023-01-21","2023-01-22","2023-01-23","2023-01-24","2023-01-25","2023-01-26","2023-01-27","2023-01-28","2023-01-29","2023-01-30","2023-01-31","2023-02-01","2023-02-02","2023-02-03","2023-02-04","2023-02-05","2023-02-06","2023-02-07","2023-02-08","2023-02-09",], ticks: {display: true},gridlines:{display:false}}],
+			xAxes: [{type: 'category', labels: ["2023-01-11","2023-01-12","2023-01-13","2023-01-14","2023-01-15","2023-01-16","2023-01-17","2023-01-18","2023-01-19","2023-01-20","2023-01-21","2023-01-22","2023-01-23","2023-01-24","2023-01-25","2023-01-26","2023-01-27","2023-01-28","2023-01-29","2023-01-30","2023-01-31","2023-02-01","2023-02-02","2023-02-03","2023-02-04","2023-02-05","2023-02-06","2023-02-07","2023-02-08","2023-02-09","2023-02-10",], ticks: {display: true},gridlines:{display:false}}],
 			yAxes: [{type: 'category', labels: ["Alle","00-04","05-14","15-34","35-59","60-79","80+"], offset:true, ticks: {display: true},gridlines:{display:false}}],
 		},
 	}
@@ -64,7 +64,7 @@ var chdata2={
 	data: {
 		datasets: [{
 			label: 'Aktive Fälle ',
-			data: [395,3,7,80,172,88,45
+			data: [391,3,7,78,169,88,46
 			],
 		}]
 	},
@@ -80,7 +80,7 @@ var chdata4={
 	data: {
 		datasets: [{
 			label: 'Aktive Fälle in % der Bevölkerung/Altersgruppe',
-			data: [0.125,0.02,0.024,0.122,0.15,0.129,0.203
+			data: [0.124,0.02,0.024,0.119,0.147,0.129,0.207
 			],
 		}]
 	},

diff --git a/sh/Data_SH.js b/sh/Data_SH.js
@@ -27,7 +27,7 @@ borderColor: 'rgba(72,240,72,1)',
 borderWidth: 1.5,
 pointRadius: 0,
 yAxisID: 'second-y-axis',
-data: [9.82,10.27,10.44,10.51,10.64,10.47,10.27,10.1,9.48,9.34,9.24,8.93,9.17,9.21,9.72,10.03,9.96,9.99,9.65,9.55,9.72,9.24,9.51,9.72,9.48,9.65,9.41,9,9.27,8.69,8.93,9.07,9.17,9.89,10.44,9.92,10.3,10.1,10.81,11.67,11.98,12.05,12.73,12.7,12.94,13.18,13.72,13.69,13.72,14.17,14.34,14.2,14.68,14.1,13.79,13.83,13.66,13.11,13.14,12.42,12.63,13,13.24,13.18,13.52,13.14,13.04,12.32,12.05,11.7,10.23,9.75,9.82,7.91,8.15,9.92,10.06,11.16,11.46,11.33,13.11,12.53,9.89,8.97,8.18,7.8,7.73,7.22,6.54,6.09,5.75,5.85,5.85,5.85,6.26,6.57,6.78,7.02,6.88,6.91,6.95,5.99,5.1,4.83,4.62,4.45,4.48,4.65,4.89,5.3,5.41,4.86,4.62,4.69,4.52,4,3.97,3.83,4.48,4.65,4.76,4.89,4.35,4.69,5.13,5.24,5.51,5.68,5.61,6.57,7.36,7.26,7.36,7.77,7.77,8.01,8.83,8.59,9.75,10.64,10.88,10.99,11.36,12.05,12.94,12.53,12.46,13.14,12.83,12.73,14.13,14.89,15.23,15.02,14.68,15.3,15.2,14,12.42,12.42,12.53,12.46,12.32,12.11,12.53,13.83,13.79,14.03,13.89,13.83,13.89,12.8,11.84,11.46,10.75,9.86,9.65,9.79,9.55,8.83,8.59,8.59,9.27,9.24,9.38,9.75,9.41,9.38,9.72,9.72,9.45,9.41,9.1,9.69,9.82,9.96,9.27,9.45,9.1,8.97,8.35,7.8,6.81,6.81,7.05,6.98,6.33,6.19,6.3,6.02,6.09,5.65,5.54,5.58,5.58,5.13,5.17,5,5.13,5.03,5.13,5.65,5.61,5.72,5.89,5.95,6.16,6.3,6.37,6.98,7.39,8.25,8.42,9.27,11.88,13.86,14.78,16.56,17.21,17.35,17.15,13.89,15.78,17.73,18.34,18.72,18.96,18.65,22.59,19.99,19.1,18.79,18.86,18.89,18.93,19.44,20.43,20.33,19.95,19.88,19.71,20.02,18.51,17.73,17.18,16.39,15.26,15.13,14.72,11.57,11.29,11.09,11.67,12.05,11.7,11.7,14.13,13.24,12.7,11.77,11.53,11.53,11.33,10.95,11.29,10.92,11.02,10.3,10.3,10.47,10.13,9.45,9.34,9.38,10.95,10.88,11.02,13,14.13,15.85,17.21,16.77,17.01,17.01,17.45,19.03,20.02,19.85,20.77,21.05,21.18,22.24,22.28,22.11,22.48,22.83,22.79,23.07,23.07,24.06,24.44,24.71,24.37,24.3,23.58,18.31,17.93,18.55,18,18.04,17.83,17.59,21.66,19.06,16.46,15.43,13.79,13.79,13.96,12.46,11.88,10.81,9.89,9.41,9.07,8.97,7.49,6.33,6.47,6.13,5.82,5.72,5.68,5.03,5.27,4.65,4.38,4.14,4.24,4.14,4.11,3.63,3.87,3.9,4,3.9,3.94,4.14,4.11,3.25,0]},
+data: [9.82,10.27,10.44,10.51,10.64,10.47,10.27,10.1,9.48,9.34,9.24,8.93,9.17,9.21,9.72,10.03,9.96,9.99,9.65,9.55,9.72,9.24,9.51,9.72,9.48,9.65,9.41,9,9.27,8.69,8.93,9.07,9.17,9.89,10.44,9.92,10.3,10.1,10.81,11.67,11.98,12.05,12.73,12.7,12.94,13.18,13.72,13.69,13.72,14.17,14.34,14.2,14.68,14.1,13.79,13.83,13.66,13.11,13.14,12.42,12.63,13,13.24,13.18,13.52,13.14,13.04,12.32,12.05,11.7,10.23,9.75,9.82,7.91,8.15,9.92,10.06,11.16,11.46,11.33,13.11,12.53,9.89,8.97,8.18,7.8,7.73,7.22,6.54,6.09,5.75,5.85,5.85,5.85,6.26,6.57,6.78,7.02,6.88,6.91,6.95,5.99,5.1,4.83,4.62,4.45,4.48,4.65,4.89,5.3,5.41,4.86,4.62,4.69,4.52,4,3.97,3.83,4.48,4.65,4.76,4.89,4.35,4.69,5.13,5.24,5.51,5.68,5.61,6.57,7.36,7.26,7.36,7.77,7.77,8.01,8.83,8.59,9.75,10.64,10.88,10.99,11.36,12.05,12.94,12.53,12.46,13.14,12.83,12.73,14.13,14.89,15.23,15.02,14.68,15.3,15.2,14,12.42,12.42,12.53,12.46,12.32,12.11,12.53,13.83,13.79,14.03,13.89,13.83,13.89,12.8,11.84,11.46,10.75,9.86,9.65,9.79,9.55,8.83,8.59,8.59,9.27,9.24,9.38,9.75,9.41,9.38,9.72,9.72,9.45,9.41,9.1,9.69,9.82,9.96,9.27,9.45,9.1,8.97,8.35,7.8,6.81,6.81,7.05,6.98,6.33,6.19,6.3,6.02,6.09,5.65,5.54,5.58,5.58,5.13,5.17,5,5.13,5.03,5.13,5.65,5.61,5.72,5.89,5.95,6.16,6.3,6.37,6.98,7.39,8.25,8.42,9.27,11.88,13.86,14.78,16.56,17.21,17.35,17.15,13.89,15.78,17.73,18.34,18.72,18.96,18.65,22.59,19.99,19.1,18.79,18.86,18.89,18.93,19.44,20.43,20.33,19.95,19.88,19.71,20.02,18.51,17.73,17.18,16.39,15.26,15.13,14.72,11.57,11.29,11.09,11.67,12.05,11.7,11.7,14.13,13.24,12.7,11.77,11.53,11.53,11.33,10.95,11.29,10.92,11.02,10.3,10.3,10.47,10.13,9.45,9.34,9.38,10.95,10.88,11.02,13.04,14.17,15.88,17.25,16.8,17.04,17.04,17.45,19.06,20.05,19.88,20.81,21.08,21.22,22.28,22.28,22.11,22.48,22.86,22.83,23.1,23.13,24.16,24.64,24.91,24.57,24.5,23.79,18.55,18.14,18.65,18.1,18.1,17.9,17.66,21.66,19.06,16.46,15.43,13.79,13.79,13.96,12.46,11.88,10.81,9.89,9.38,9.03,8.93,7.46,6.3,6.47,6.13,5.85,5.78,5.75,5.1,5.34,4.72,4.45,4.21,4.28,4.18,4.21,3.73,3.94,3.97,4.07,3.97,4,4.21,4.21,4.18,3.8]},
 {label: '7-Tg.-Inz. Hosp. Adj.',
 type: 'line',
 fill: false,
@@ -37,7 +37,7 @@ borderWidth: 1.5,
 borderDash: [5,2.5],
 pointRadius: 0,
 yAxisID: 'second-y-axis',
-data: [,,,,,,,,,,,,,,,,,,,,,,,,,,,,,,,,,,,,,,,,,,,,,,,,,,,,,,,,,,,,,,,,,,,,,,,,,,,,,,,,,,,,,,,,,,,,,,,,,,,,,,,,,,,,,,,,,,,,,,,,,,,,,,,,,,,,,,,,,,,,,,,,,,,,,,,,,,,,,,,,,,,,,,,,,,,,,,,,,,,,,,,,,,,,,,,,,,,,,,,,,,,,,,,,,,,,,,,,,,,,,,,,,,,,,,,,,,,,,,,,,,,,,,,,,,,,,,,,,,,,,,,,,,,,,,,,,,,,,,,,,,,,,,,,,,,,,,,,,,,,,,,,,,,,20.85,21.13,21.27,22.33,22.36,22.19,22.57,22.91,22.88,23.15,23.15,24.15,24.53,24.8,24.46,24.39,23.67,18.38,18,18.62,18.07,18.1,17.9,17.66,21.76,19.15,16.55,15.53,13.89,13.89,14.07,12.58,12.01,10.95,10.03,9.56,9.21,9.11,7.65,6.48,6.64,6.31,6.01,5.9,5.87,5.23,5.5,4.88,4.62,4.38,4.5,4.4,4.43,3.95,4.29,4.4,4.59,4.49,4.56,,,,0]},
+data: [,,,,,,,,,,,,,,,,,,,,,,,,,,,,,,,,,,,,,,,,,,,,,,,,,,,,,,,,,,,,,,,,,,,,,,,,,,,,,,,,,,,,,,,,,,,,,,,,,,,,,,,,,,,,,,,,,,,,,,,,,,,,,,,,,,,,,,,,,,,,,,,,,,,,,,,,,,,,,,,,,,,,,,,,,,,,,,,,,,,,,,,,,,,,,,,,,,,,,,,,,,,,,,,,,,,,,,,,,,,,,,,,,,,,,,,,,,,,,,,,,,,,,,,,,,,,,,,,,,,,,,,,,,,,,,,,,,,,,,,,,,,,,,,,,,,,,,,,,,,,,,,,,,,,20.89,21.16,21.3,22.36,22.36,22.19,22.57,22.95,22.91,23.19,23.22,24.25,24.73,25.01,24.67,24.6,23.88,18.62,18.21,18.72,18.17,18.17,17.97,17.73,21.75,19.15,16.54,15.52,13.88,13.88,14.05,12.56,11.99,10.93,10.01,9.5,9.16,9.06,7.59,6.42,6.62,6.29,6.02,5.95,5.92,5.28,5.54,4.93,4.66,4.43,4.51,4.4,4.5,4.02,4.3,4.37,4.53,4.43,4.48,4.95,,,]},
 {label: 'Aktuell im Krankenhaus',
 type: 'line',
 fill: false,

diff --git a/sh/index_sh_kreise.html b/sh/index_sh_kreise.html
@@ -5,7 +5,7 @@
 <meta property="og:image" content="index_sh_kreise.jpg" />
 <meta property="og:type" content="website" />
 <meta property="og:locale" content="de_DE" />
-<meta property="og:updated_time" content="2023-02-11T17:13:21+01:00" />
+<meta property="og:updated_time" content="2023-02-11T20:03:31+01:00" />
 <title>COVID-19-Fälle im Kreis Pinneberg (und anderen Kreisen in SH)</title>
 <link rel="stylesheet" href="../css/style.css" media="screen" type="text/css">
 <link rel="stylesheet" media="screen" href="Chart.min.css"> 

diff --git a/sh/index_sh_alter.html b/sh/index_sh_alter.html
@@ -5,7 +5,7 @@
 <meta property="og:image" content="index_sh_alter.jpg" />
 <meta property="og:type" content="website" />
 <meta property="og:locale" content="de_DE" />
-<meta property="og:updated_time" content="2023-02-11T17:13:21+01:00" />
+<meta property="og:updated_time" content="2023-02-11T20:03:31+01:00" />
 <title>Altersverteilung der COVID-19-Fälle in Schleswig-Holstein</title>
 <link rel="stylesheet" href="../css/style.css" media="screen" type="text/css">
 <link rel="stylesheet" media="screen" href="Chart.min.css"> 

diff --git a/sh/index_pi_alter.html b/sh/index_pi_alter.html
@@ -5,7 +5,7 @@
 <meta property="og:image" content="index_pi_alter.jpg" />
 <meta property="og:type" content="website" />
 <meta property="og:locale" content="de_DE" />
-<meta property="og:updated_time" content="2023-02-11T17:13:21+01:00" />
+<meta property="og:updated_time" content="2023-02-11T20:03:31+01:00" />
 <title>Altersverteilung der COVID-19-Fälle im Kreis Pinneberg</title>
 <link rel="stylesheet" href="../css/style.css" media="screen" type="text/css">
 <link rel="stylesheet" media="screen" href="Chart.min.css"> 
